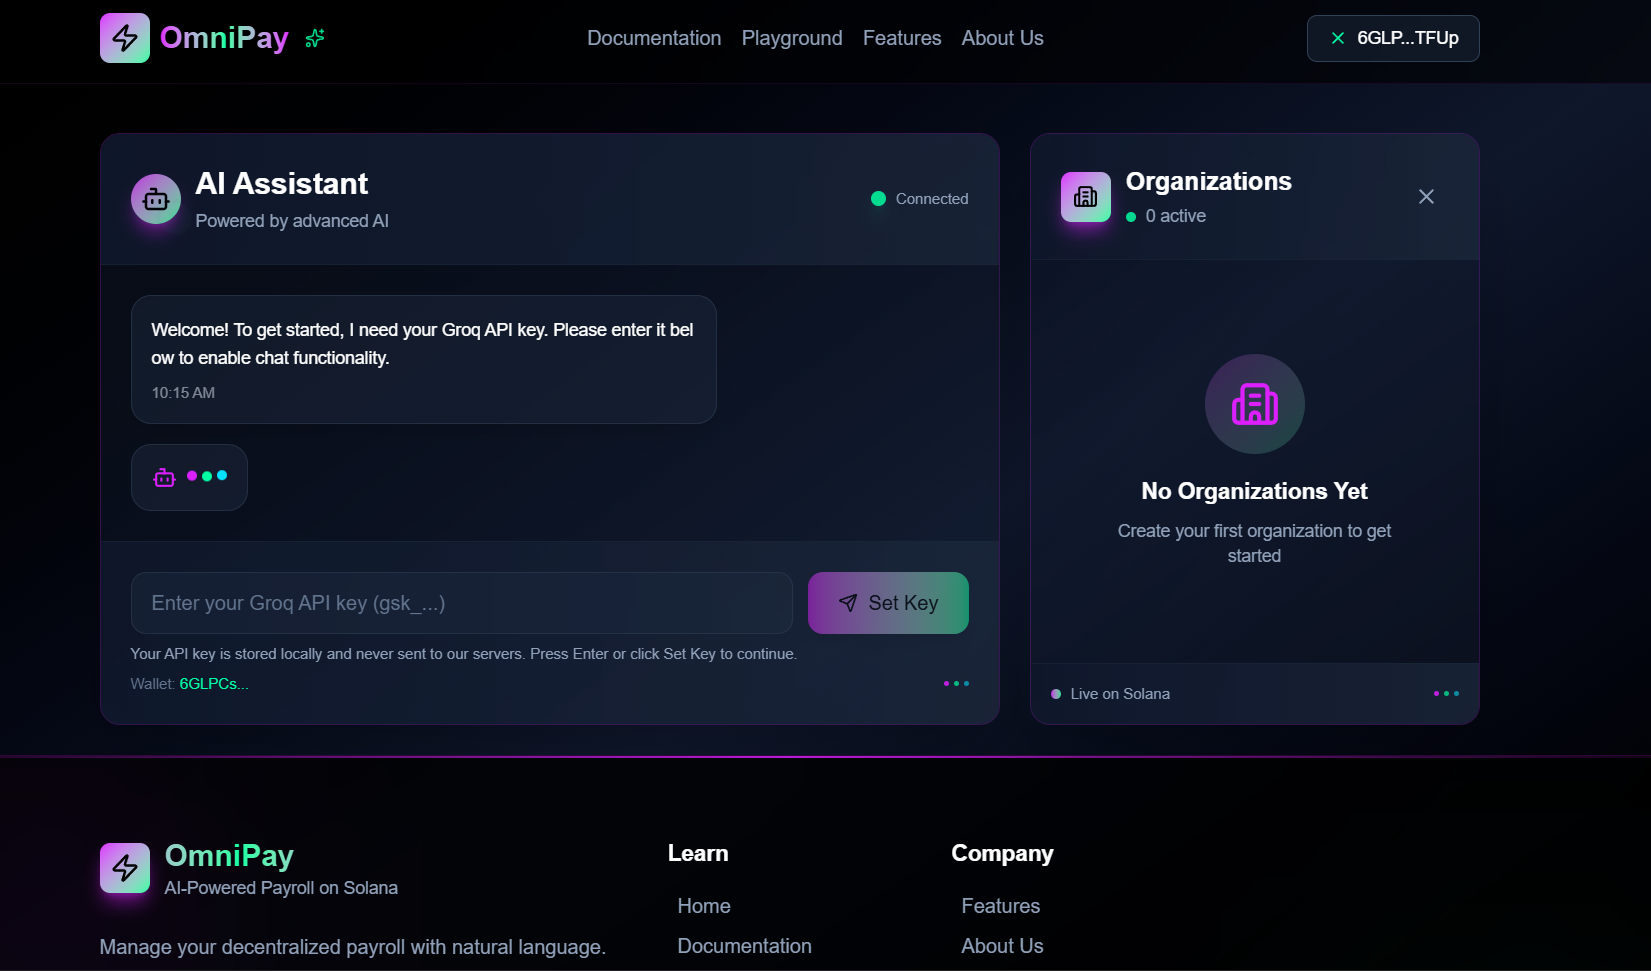
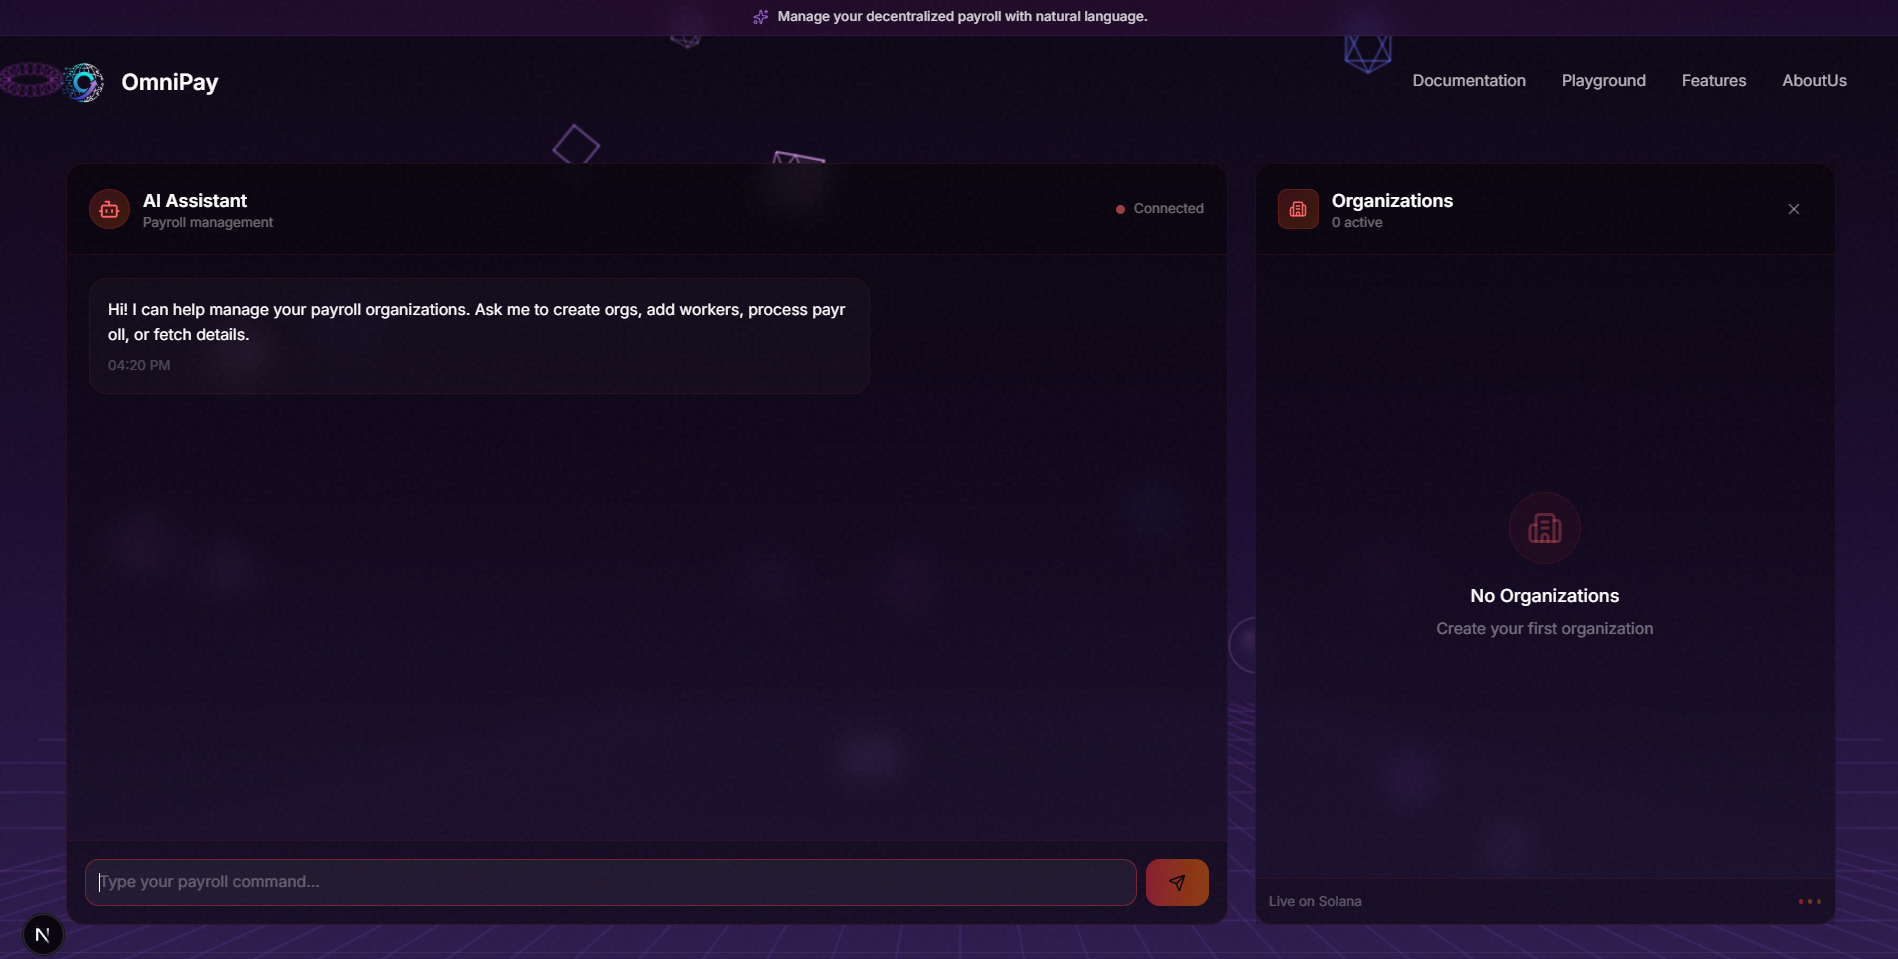
dashboard

diff --git a/components/Header.tsx b/components/Header.tsx
@@ -1,12 +1,35 @@
 "use client";
 
-import { Menu } from "lucide-react";
+import { Menu, X } from "lucide-react";
 import Link from "next/link";
 import Image from "next/image";
 import { useState } from "react";
+import { useWallet } from "@solana/wallet-adapter-react";
+import { usePathname } from "next/navigation";
+import dynamic from "next/dynamic";
+
+const WalletMultiButton = dynamic(
+  () =>
+    import("@solana/wallet-adapter-react-ui").then(
+      (mod) => mod.WalletMultiButton
+    ),
+  { ssr: false }
+);
 
 const Header = () => {
   const [mobileMenuOpen, setMobileMenuOpen] = useState(false);
+  const { connected, publicKey, disconnect } = useWallet();
+  const pathname = usePathname();
+  
+  const isDashboard = pathname === '/dashboard';
+
+  const handleDisconnect = async () => {
+    if (disconnect) await disconnect();
+  };
+
+  const address = publicKey
+    ? `${publicKey.toBase58().slice(0, 4)}...${publicKey.toBase58().slice(-4)}`
+    : "";
 
   const navLinks = [
     { label: "Documentation", href: "/documentation" },
@@ -40,6 +63,21 @@ const Header = () => {
               ))}
             </nav>
 
+            {isDashboard && (
+              <div className="hidden md:flex items-center gap-4">
+                {connected ? (
+                  <button onClick={handleDisconnect}>
+                    <div className="flex items-center gap-2 px-3 py-2 bg-purple-500/10 hover:bg-purple-500/20 border border-purple-500/20 rounded-lg transition-all">
+                      <X className="w-3.5 h-3.5 text-purple-400" />
+                      <span className="text-white font-mono text-xs">{address}</span>
+                    </div>
+                  </button>
+                ) : (
+                  <WalletMultiButton />
+                )}
+              </div>
+            )}
+
             <button
               onClick={() => setMobileMenuOpen(!mobileMenuOpen)}
               className="md:hidden"
@@ -57,6 +95,20 @@ const Header = () => {
                   {link.label}
                 </Link>
               ))}
+              {isDashboard && (
+                <div className="pt-2 border-t border-white/10">
+                  {connected ? (
+                    <button onClick={handleDisconnect} className="w-full">
+                      <div className="flex items-center gap-2 px-3 py-2 bg-purple-500/10 hover:bg-purple-500/20 border border-purple-500/20 rounded-lg transition-all">
+                        <X className="w-3.5 h-3.5 text-purple-400" />
+                        <span className="text-white font-mono text-xs">{address}</span>
+                      </div>
+                    </button>
+                  ) : (
+                    <WalletMultiButton />
+                  )}
+                </div>
+              )}
             </div>
           </div>
         )}

diff --git a/components/Dashboard.tsx b/components/Dashboard.tsx
@@ -447,8 +447,8 @@ SOLANA EXPLORER LINKS:
         </div>
       )}
 
-      <main className="max-w-[95vw] lg:max-w-[75vw] mx-auto px-3 sm:px-6 pb-6 mt-4 sm:mt-8">
-        <div className="max-w-full min-h-[calc(100vh-35rem)] flex flex-col lg:flex-row gap-4 sm:gap-6">
+      <main className="w-full max-w-[95vw] mx-auto px-3 sm:px-6 pb-6 mt-4 sm:mt-8">
+        <div className="w-full min-h-[calc(100vh-12rem)] flex flex-col lg:flex-row gap-4 sm:gap-6">
           <ChatPanel
             messages={messages}
             input={input}

diff --git a/app/about/page.tsx b/app/about/page.tsx
@@ -109,7 +109,7 @@ export default function AboutPage() {
 
                     <div className="order-1 md:order-2 flex justify-center">
                         <div className="p-10 rounded-3xl text-center text-black font-bold text-2xl" style={{ background: `linear-gradient(135deg, ${colors.purple}, ${colors.violet}, ${colors.fuchsia})` }}>
-                            🚀 OmniPay<br />Revolutionizing Payroll<br />on Solana
+                             OmniPay<br />Revolutionizing Payroll<br />on Solana
                         </div>
                     </div>
                 </div>

diff --git a/components/ChatPanel.tsx b/components/ChatPanel.tsx
@@ -148,7 +148,7 @@ const ChatPanel: React.FC<ChatPanelProps> = ({
     };
 
     return (
-        <div className={`${isPayrollOpen ? 'hidden lg:flex lg:w-2/3' : 'w-full'} min-h-[50vh] max-h-[80vh] transition-all duration-300 flex flex-col bg-black/40 border border-red-500/10 rounded-2xl backdrop-blur-md overflow-hidden`}>
+        <div className={`${isPayrollOpen ? 'hidden lg:flex lg:w-2/3' : 'w-full'} min-h-[70vh] max-h-[85vh] transition-all duration-300 flex flex-col bg-black/40 border border-red-500/10 rounded-2xl backdrop-blur-md overflow-hidden`}>
             <div className="p-4 sm:p-5 border-b border-red-500/10 shrink-0 bg-black/20">
                 <div className="flex items-center justify-between">
                     <div className="flex items-center gap-3">

diff --git a/components/OrganizationsPanel.tsx b/components/OrganizationsPanel.tsx
@@ -29,7 +29,7 @@ const OrganizationsPanel: React.FC<OrganizationsPanelProps> = ({
                 onClick={onToggle}
             />
 
-            <div className="lg:relative lg:w-1/3 min-h-[50vh] max-h-[85vh] lg:max-h-[80vh] z-40 flex flex-col bg-black/40 border-t lg:border border-red-500/10 rounded-t-2xl lg:rounded-2xl backdrop-blur-md">
+            <div className="lg:relative lg:w-1/3 min-h-[70vh] max-h-[85vh] z-40 flex flex-col bg-black/40 border-t lg:border border-red-500/10 rounded-t-2xl lg:rounded-2xl backdrop-blur-md">
                 <div className="p-4 sm:p-5 border-b border-red-500/10 flex items-center justify-between shrink-0 bg-black/20">
                     <div className="flex items-center gap-3">
                         <div className="w-9 h-9 bg-gradient-to-br from-red-500/20 to-orange-500/20 border border-red-500/20 rounded-lg flex items-center justify-center">